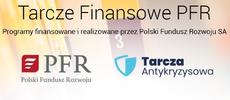
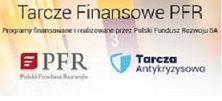
Add good practice POT OZ

diff --git a/index.html b/index.html
@@ -389,8 +389,20 @@
                     </div>
                 </div>
             </div>
-            <img class="shield" src="assets/images/helpers/tarcza_Willapodbandera..jpg" alt="">
-            <img class="shield" src="assets/images/helpers/PFR_WillaPodBandera.jpg" alt="">
+            <div class="activities-grid">
+                <!-- grid item #1 -->
+                <div class="activities-grid-item shieldPfr">
+                    
+                </div>
+                <!-- grid item #2 -->
+                <div class="activities-grid-item goodPractice">
+                    
+                </div>
+                <!-- grid item #2 -->
+                <div class="activities-grid-item pfr">
+                    
+                </div>
+            </div>            
         </section>
     </main>
 

diff --git a/assets/style.css b/assets/style.css
@@ -476,9 +476,23 @@ background-color: #d7d4ed;
     border-radius: 4px;
     padding: 5px;
     width: 300px;
+    flex-direction: column;
+    justify-content: center;
+    display: grid;
   }
   
-
+  .shieldPfr{
+    background: url(../assets/images/helpers/tarcza_Willapodbandera..jpg) center no-repeat;
+    size: 0.2%;
+ }
+ .goodPractice{
+     background: url(../assets/images/helpers/DobrePraktyki_WillaPodBanderą.png) center no-repeat;
+     size: 0.2%;
+ }
+ .pfr{
+    background: url(../assets/images/helpers/PFR_WillaPodBandera.jpg) center no-repeat;
+    size: 0.2%;
+ }
   /* LARGE SCREENS */
   @media(min-width:700px){
     .wrapper{
